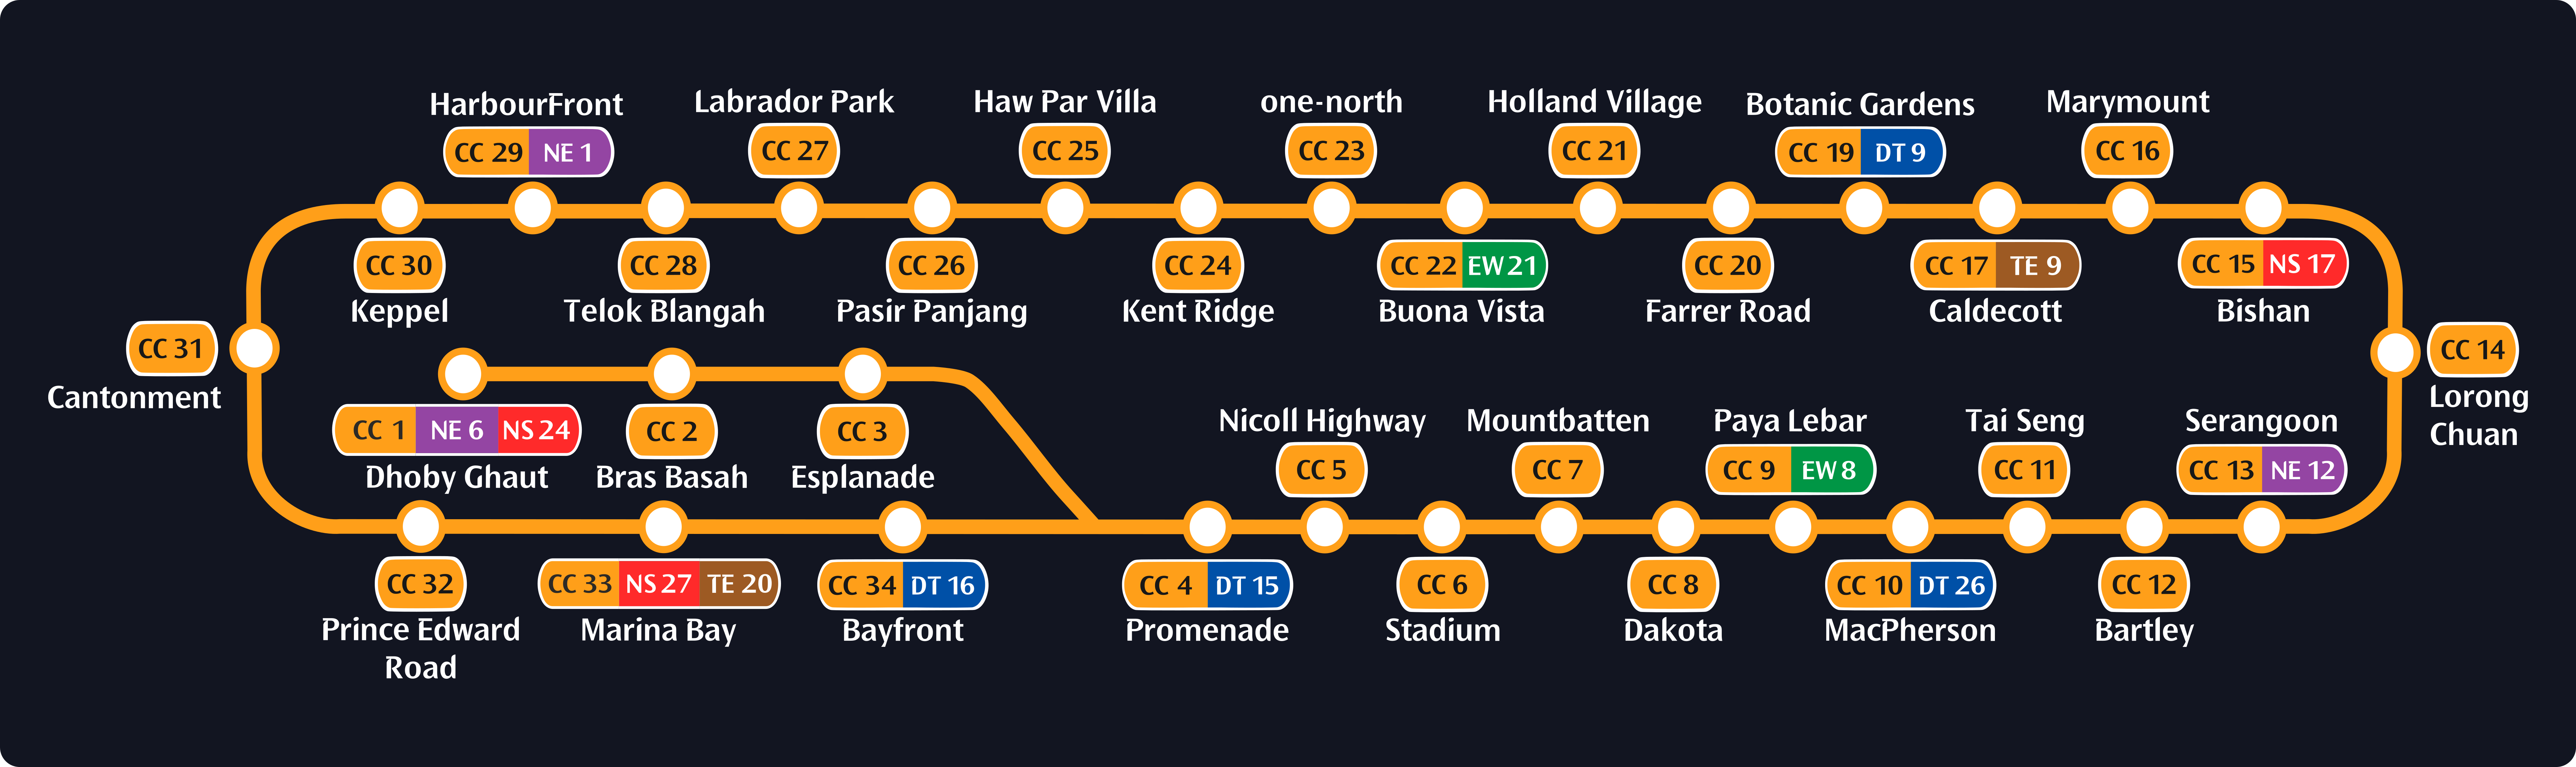
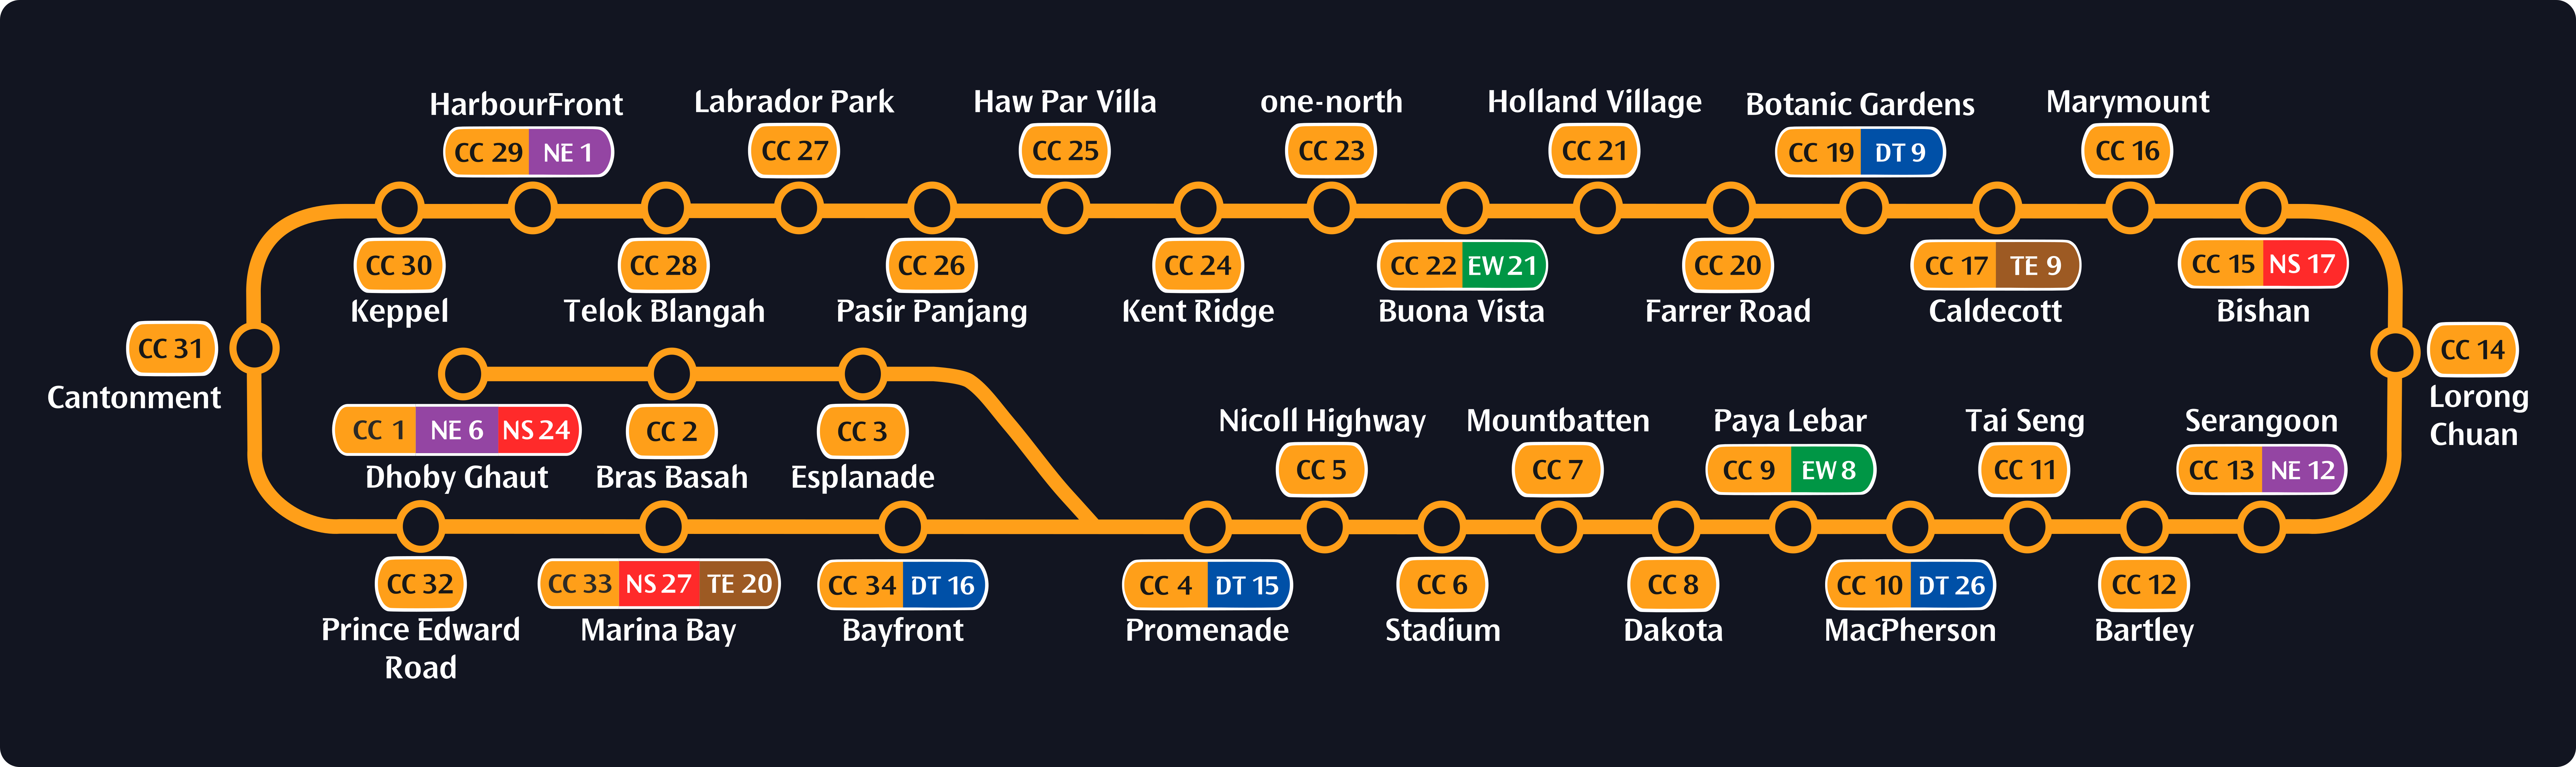
2026-06 Cumulative Update for Personal (170526.4)

diff --git a/eicw/ccl6.html b/eicw/ccl6.html
@@ -103,7 +103,8 @@
       }
     }
 
-    .wf-variant-tabs {
+    .wf-variant-tabs,
+    .dirv-variant-tabs {
       display: flex;
       justify-content: center;
       gap: 10px;
@@ -111,7 +112,8 @@
       flex-wrap: wrap;
     }
 
-    .wf-variant-tab {
+    .wf-variant-tab,
+    .dirv-variant-tab {
       border: 1px solid #c9d4dc;
       background: #f6fafc;
       color: #274257;
@@ -124,30 +126,35 @@
       transition: all 0.2s ease;
     }
 
-    .wf-variant-tab:hover {
+    .wf-variant-tab:hover,
+    .dirv-variant-tab:hover {
       background: #c7e3fb;
       border-color: #90b2cc;
     }
 
-    .wf-variant-tab.is-active {
+    .wf-variant-tab.is-active,
+    .dirv-variant-tab.is-active {
       background: #5a9aaf;
       color: #fff;
       border-color: #5a9aaf;
       box-shadow: 0 5px 14px rgba(20, 58, 91, 0.28);
     }
 
-    body.dark-mode .wf-variant-tab {
+    body.dark-mode .wf-variant-tab,
+    body.dark-mode .dirv-variant-tab {
       background: rgba(255, 255, 255, 0.05);
       border-color: rgba(255, 255, 255, 0.2);
       color: #e9f5ff;
     }
 
-    body.dark-mode .wf-variant-tab:hover {
+    body.dark-mode .wf-variant-tab:hover,
+    body.dark-mode .dirv-variant-tab:hover {
       background: #52718d;
       border-color: rgba(255, 255, 255, 0.32);
     }
 
-    body.dark-mode .wf-variant-tab.is-active {
+    body.dark-mode .wf-variant-tab.is-active,
+    body.dark-mode .dirv-variant-tab.is-active {
       background: #5a9aaf;
       color: #fff;
       border-color: #5a9aaf;
@@ -355,9 +362,6 @@
                 <h2 class="text-center"
                   style="font-size: 30px; font-weight:bold; text-align: center; padding-top: 2em;">
                   Enhancements Overview</h2>
-                <!-- <p style="text-align: center;">This is the pre-revised Enhancements, based on initial feedback and
-                  insights. To view the revised version, please refer to the <a href="ccl6.html"
-                    class="hyperlink">Revised</a> page.</p> -->
                 <div class="banner-eicw">
                   <a href="img/ccl6-overview-light.png" id="evo3" class="portfolio-img"
                     style="box-shadow: none; border: none;">
@@ -446,6 +450,59 @@
                 </figcaption>
               </div>
             </div>
+          </div>
+        </div>
+      </div>
+    </div>
+  </section>
+
+  <hr>
+
+  <!-- Direction Variants -->
+  <section class="about-me-summ clearfix" style="padding-bottom: 30px;">
+    <div class="wbnrfz_details_body">
+      <div class="container container-mobile">
+        <div class="row justify-content-center">
+          <div class="col-lg-12">
+            <div class="row justify-content-center">
+
+              <!-- CCL6 -->
+              <div class="col-lg-12 wow fadeIn" data-wow-delay="100ms">
+                <div class="info justify-content-center">
+                  <h2 class="mb-3 text-center" style="font-size: 30px; font-weight:bold; text-align: left;">Direction
+                    Variants</h2>
+                  <p style="text-align: left; margin-bottom: 0em;">To get you started, select a direction variant to
+                    view its corresponding route (Example station: Promenade):</p>
+                  </p>
+                </div>
+              </div>
+
+              <div class="dirv-variant-tabs" role="tablist" aria-label="Direction variants">
+                <button type="button" class="dirv-variant-tab is-active" id="dirv-variant-a" data-dirv-variant="A"
+                  role="tab" aria-selected="true" aria-controls="dirv-image-wrap">
+                  Anticlockwise via Paya Lebar
+                </button>
+                <button type="button" class="dirv-variant-tab" id="dirv-variant-b" data-dirv-variant="B" role="tab"
+                  aria-selected="false" aria-controls="dirv-image-wrap">
+                  Clockwise via Bayfront
+                </button>
+                <button type="button" class="dirv-variant-tab" id="dirv-variant-c" data-dirv-variant="C" role="tab"
+                  aria-selected="false" aria-controls="dirv-image-wrap">
+                  Clockwise (Spur) ends at Dhoby Ghaut
+                </button>
+                <button type="button" class="dirv-variant-tab" id="dirv-variant-d" data-dirv-variant="D" role="tab"
+                  aria-selected="false" aria-controls="dirv-image-wrap">
+                  Anticlockwise ends at Prince Edward Road
+                </button>
+              </div>
+
+              <div class="banner-eicw" id="dirv-image-wrap" role="tabpanel" aria-labelledby="dirv-variant-a">
+                <a href="img-2/dirv1-light.png" id="dirv1" class="portfolio-img">
+                  <img src="img-2/dirv1-light.png" id="dirv1-img" class="img-fluid" alt="dirv1">
+                </a>
+              </div>
+
+            </div>>
           </div>
         </div>
       </div>

diff --git a/eicw/js/ccl6.js b/eicw/js/ccl6.js
@@ -30,6 +30,11 @@ function getActiveWfVariant() {
     return activeTab ? activeTab.getAttribute('data-wf-variant') : 'A';
 }
 
+function getActiveDirvVariant() {
+    const activeTab = document.querySelector('.dirv-variant-tab.is-active');
+    return activeTab ? activeTab.getAttribute('data-dirv-variant') : 'A';
+}
+
 // Apply theme on page load
 if (shouldBeDark()) {
     document.body.classList.add('dark-mode');
@@ -187,6 +192,24 @@ function updateHrefForDarkMode() {
     const evo3_link = document.getElementById('evo3');
     const evo3_img = document.getElementById('evo3-img');
 
+    const dirv1_link = document.getElementById('dirv1');
+    const dirv1_img = document.getElementById('dirv1-img');
+    const activeDirvVariant = getActiveDirvVariant();
+    const dirvImageMap = {
+        dark: {
+            A: './img-2/dirv1-dark.png',
+            B: './img-2/dirv2-dark.png',
+            C: './img-2/dirv3-dark.png',
+            D: './img-2/dirv4-dark.png'
+        },
+        light: {
+            A: './img-2/dirv1-light.png',
+            B: './img-2/dirv2-light.png',
+            C: './img-2/dirv3-light.png',
+            D: './img-2/dirv4-light.png'
+        }
+    };
+
     const wf_link = document.getElementById('wf');
     const wf_img = document.getElementById('wf-img');
     const activeWfVariant = getActiveWfVariant();
@@ -232,6 +255,9 @@ function updateHrefForDarkMode() {
         if (evo3_link) evo3_link.href = './img/ccl6-overview-dark.png';
         if (evo3_img) evo3_img.src = './img/ccl6-overview-dark.png';
 
+        if (dirv1_link) dirv1_link.href = dirvImageMap.dark[activeDirvVariant] || dirvImageMap.dark.A;
+        if (dirv1_img) dirv1_img.src = dirvImageMap.dark[activeDirvVariant] || dirvImageMap.dark.A;
+
         if (wf_link) wf_link.href = wfImageMap.dark[activeWfVariant] || wfImageMap.dark.A;
         if (wf_img) wf_img.src = wfImageMap.dark[activeWfVariant] || wfImageMap.dark.A;
 
@@ -262,6 +288,9 @@ function updateHrefForDarkMode() {
         if (evo3_link) evo3_link.href = './img/ccl6-overview-light.png';
         if (evo3_img) evo3_img.src = './img/ccl6-overview-light.png';
 
+        if (dirv1_link) dirv1_link.href = dirvImageMap.light[activeDirvVariant] || dirvImageMap.light.A;
+        if (dirv1_img) dirv1_img.src = dirvImageMap.light[activeDirvVariant] || dirvImageMap.light.A;
+
         if (wf_link) wf_link.href = wfImageMap.light[activeWfVariant] || wfImageMap.light.A;
         if (wf_img) wf_img.src = wfImageMap.light[activeWfVariant] || wfImageMap.light.A;
 
@@ -274,6 +303,41 @@ function updateHrefForDarkMode() {
 
 
 }
+
+// Direction variant tabs
+document.addEventListener('DOMContentLoaded', function () {
+    var variantTabs = Array.from(document.querySelectorAll('.dirv-variant-tab'));
+    var dirvPanel = document.getElementById('dirv-image-wrap');
+    var dirvCaption = document.getElementById('dirv-caption');
+
+    if (variantTabs.length === 0) return;
+
+    function setDirectionVariant(variant) {
+        variantTabs.forEach(function (tab) {
+            var isActive = tab.getAttribute('data-dirv-variant') === variant;
+            tab.classList.toggle('is-active', isActive);
+            tab.setAttribute('aria-selected', isActive ? 'true' : 'false');
+        });
+
+        if (dirvPanel) {
+            dirvPanel.setAttribute('aria-labelledby', variant === 'B' ? 'dirv-variant-b' : 'dirv-variant-a');
+        }
+
+        if (dirvCaption) {
+            dirvCaption.textContent = 'My Redesigned Version - Variant ' + variant;
+        }
+
+        updateHrefForDarkMode();
+    }
+
+    variantTabs.forEach(function (tab) {
+        tab.addEventListener('click', function () {
+            setDirectionVariant(tab.getAttribute('data-dirv-variant'));
+        });
+    });
+
+    setDirectionVariant(getActiveDirvVariant());
+});
 
 // Wayfinding flow variant tabs
 document.addEventListener('DOMContentLoaded', function () {